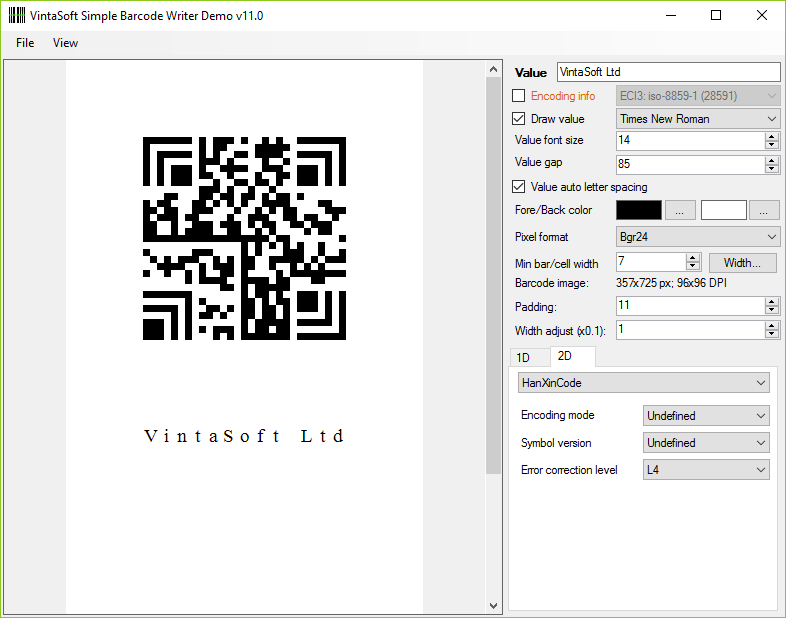
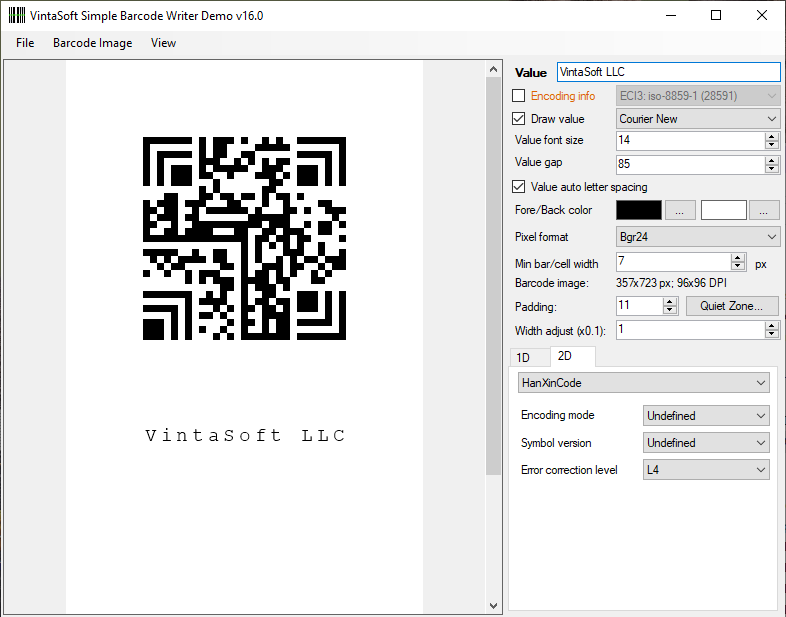
Source codes update

diff --git a/CSharp/MainForm.cs b/CSharp/MainForm.cs
@@ -30,9 +30,6 @@ namespace SimpleBarcodeWriterDemo
         /// </summary>
         static MainForm()
         {
-            // register the evaluation license for VintaSoft Barcode .NET SDK
-            Vintasoft.Barcode.BarcodeGlobalSettings.Register("REG_USER", "REG_EMAIL", "EXPIRATION_DATE", "REG_CODE");
-
 #if NETCOREAPP
             System.Text.Encoding.RegisterProvider(System.Text.CodePagesEncodingProvider.Instance);
 #endif
@@ -77,7 +74,7 @@ namespace SimpleBarcodeWriterDemo
 
         #region Methods
 
-        #region "File" menu
+        #region File menu
 
         private void exitToolStripMenuItem_Click(object sender, EventArgs e)
         {
@@ -87,7 +84,7 @@ namespace SimpleBarcodeWriterDemo
         #endregion
 
 
-        #region "Barcode Image" menu
+        #region Barcode Image menu
 
         private void saveAsToolStripMenuItem_Click(object sender, EventArgs e)
         {
@@ -159,7 +156,7 @@ namespace SimpleBarcodeWriterDemo
         #endregion
 
 
-        #region "View" menu
+        #region View menu
 
         private void sizeModeToolStripMenuItem_Click(object sender, EventArgs e)
         {

diff --git a/CSharp/Controls/BarcodeWriterSettingsControl.cs b/CSharp/Controls/BarcodeWriterSettingsControl.cs
@@ -171,6 +171,8 @@ namespace BarcodeDemo.Controls
             twoDimensionalBarcodeComboBox.Items.Add(BarcodeSymbologySubsets.GS1DataMatrix);
             twoDimensionalBarcodeComboBox.Items.Add(BarcodeSymbologySubsets.GS1DotCode);
             twoDimensionalBarcodeComboBox.Items.Add(BarcodeSymbologySubsets.GS1QR);
+            twoDimensionalBarcodeComboBox.Items.Add(BarcodeSymbologySubsets.GS1DigitalLinkQR);
+            twoDimensionalBarcodeComboBox.Items.Add(BarcodeSymbologySubsets.GS1DigitalLinkDataMatrix);
             twoDimensionalBarcodeComboBox.Items.Add(BarcodeSymbologySubsets.MailmarkCmdmType7);
             twoDimensionalBarcodeComboBox.Items.Add(BarcodeSymbologySubsets.MailmarkCmdmType9);
             twoDimensionalBarcodeComboBox.Items.Add(BarcodeSymbologySubsets.MailmarkCmdmType29);

diff --git a/CSharp/Properties/AssemblyInfo.cs b/CSharp/Properties/AssemblyInfo.cs
@@ -29,5 +29,5 @@ using System.Runtime.InteropServices;
 //      Build Number
 //      Revision
 //
-[assembly: AssemblyVersion("15.3.12.1")]
-[assembly: AssemblyFileVersion("15.3.12.1")]
+[assembly: AssemblyVersion("16.0.0.1")]
+[assembly: AssemblyFileVersion("16.0.0.1")]

diff --git a/README.md b/README.md
@@ -28,4 +28,4 @@ VintaSoft Barcode .NET SDK on-line User Guide and API Reference for .NET develop
 
 
 ## Support
-Please visit our <a href="https://myaccount.vintasoft.com/">online support center</a> if you have any question or problem.
+Please <a href="https://www.vintasoft.com/support.html">contact VintaSoft Support or Sales</a> if you have any question or problem.
